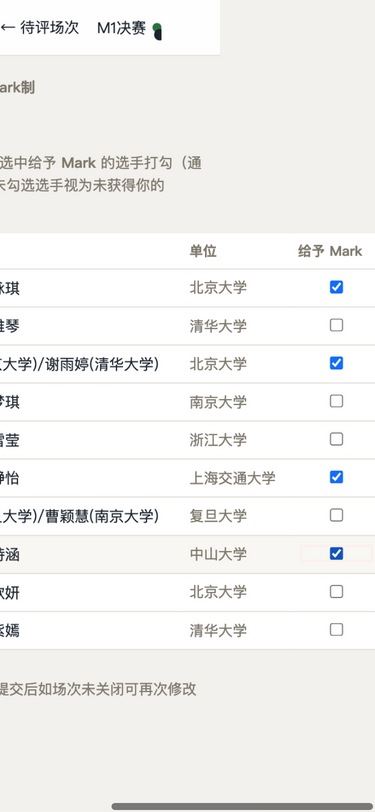
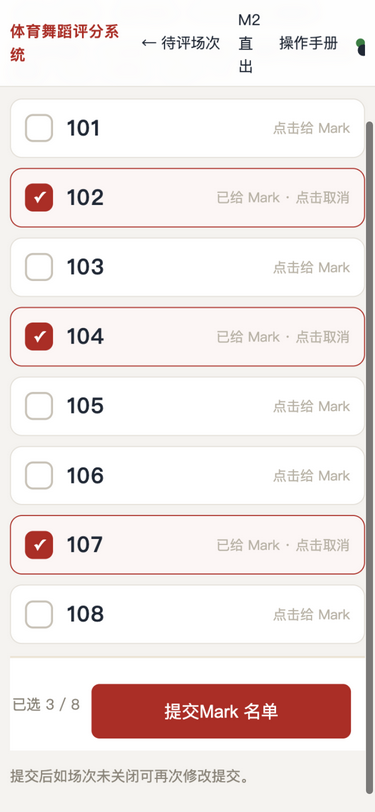
裁判移动端打分重设计：顺位法顺序点选(一人一点)/Mark整行点选/评分制数字键盘/吸附提交栏；CSS版本参数防缓存；手册同步

diff --git a/server/templates/judge_sheet.html b/server/templates/judge_sheet.html
@@ -1,46 +1,61 @@
 {% extends "base.html" %}
 {% block title %}评分 · {{ ev.name }} · {{ dance }}{% endblock %}
 {% block nav %}<a href="/judge">← 待评场次</a><span>{{ ev.name }}</span>{% endblock %}
+{% block bodyclass %}judge-sheet{% endblock %}
 {% block content %}
 <div class="judge-sheet">
 <h1>{{ dance }} <span class="muted">{{ ev.name }} / {{ ev.scoring_type }}</span></h1>
 <p id="roster-note" class="muted">{% if is_score %}上场 {{ n }} 支队伍{% else %}上场 {{ n }} 名选手{% endif %} · 盲评原则：评分页仅显示背番号</p>
 {% if not roster %}<p class="err">上场名单为空或场次未开场。</p>{% endif %}
-{% if is_mark %}<p class="muted">滑冰制预赛：裁判只对选中给予 <b>Mark</b> 的选手打勾（通常为晋级名额数量）；未勾选选手视为未获得你的 Mark。已选 <span id="mark-count">0</span> / {{ n }}</p>{% endif %}
-<table>
-  <tr><th>背番号</th><th>{% if is_skating %}名次（1~{{ n }} 唯一）{% elif is_score %}评分（0~10，一位小数）{% else %}给予 Mark{% endif %}</th></tr>
+
+{% if is_mark %}
+<p class="muted">滑冰制预赛：点击选手行给予 <b>Mark</b>（通常为晋级名额数量）；再点一次取消。已选 <span id="mark-count">0</span> / {{ n }}</p>
+<div class="mark-list">
   {% for num in roster %}
-  <tr>
-    <td>{{ num }}</td>
-    <td>
-      {% if is_skating %}
-      <select class="val" data-num="{{ num }}">
-        <option value="">--</option>
-        {% for i in range(1, n + 1) %}<option value="{{ i }}" {% if rows.get(num) and rows[num]["placement"] == i %}selected{% endif %}>{{ i }}</option>{% endfor %}
-      </select>
-      {% elif is_score %}
-      <input type="number" class="val" data-num="{{ num }}" min="0" max="10" step="0.5"
-        value="{{ rows.get(num) and rows[num]["mark"] if rows.get(num) and rows[num]["mark"] is not none else "" }}">
-      {% else %}
-      <input type="checkbox" class="val" data-num="{{ num }}"
-        {% if rows.get(num) and rows[num]["mark"] is not none %}{{ "checked" if rows[num]["mark"] else "" }}{% endif %}>
-      {% endif %}
-    </td>
-  </tr>
+  <div class="mark-row" data-num="{{ num }}">
+    <span class="mark-box"></span>
+    <span class="row-num">{{ num }}</span>
+    <span class="mark-hint">点击给 Mark</span>
+    <input type="checkbox" class="val" data-num="{{ num }}" {% if rows.get(num) and rows[num]["mark"] is not none %}{{ "checked" if rows[num]["mark"] else "" }}{% endif %}>
+  </div>
   {% endfor %}
-</table>
-<p><button class="btn" id="submit" onclick="submitSheet()">提交{% if is_skating %}名次表{% elif is_score %}评分表{% else %}Mark 名单{% endif %}</button>
-<span id="msg"></span> <span class="muted">提交后如场次未关闭可再次修改提交。</span></p>
+</div>
+{% elif is_skating %}
+<p class="muted">按名次顺序依次点击选手：第 1 次点击 = 第 1 名，第 2 次 = 第 2 名……点已排选手取消并自动补位。</p>
+<div class="rank-list">
+  {% for num in roster %}
+  <div class="rank-row" data-num="{{ num }}">
+    <span class="rank-badge"></span>
+    <span class="row-num">{{ num }}</span>
+    <span class="rank-hint">点击排名</span>
+    <input type="hidden" class="val" data-num="{{ num }}" value="{{ rows.get(num) and rows[num]["placement"] if rows.get(num) and rows[num]["placement"] else "" }}">
+  </div>
+  {% endfor %}
+</div>
+{% else %}
+<p class="muted">为每支队伍打 0~10 分（一位小数），点击输入框唤起数字键盘。</p>
+<div class="score-list">
+  {% for num in roster %}
+  <label class="score-row">
+    <span class="row-num">{{ num }}</span>
+    <input type="number" class="val" data-num="{{ num }}" min="0" max="10" step="0.5" inputmode="decimal" placeholder="0.0~10.0"
+      value="{{ rows.get(num) and rows[num]["mark"] if rows.get(num) and rows[num]["mark"] is not none else "" }}">
+  </label>
+  {% endfor %}
+</div>
+{% endif %}
+
+<div class="submit-bar">
+  <span id="progress" class="muted"></span>
+  <button class="btn big" id="submit" onclick="submitSheet()">提交{% if is_skating %}名次表{% elif is_score %}评分表{% else %}Mark 名单{% endif %}</button>
+  <span id="msg"></span>
+</div>
+<p class="muted">提交后如场次未关闭可再次修改提交。</p>
 </div>
 {% endblock %}
 {% block scripts %}
-var CEID = {{ ev.id }}, DANCE = {{ dance|tojson }}, SKATING = {{ is_skating|tojson }}, SCORE = {{ is_score|tojson }};
-document.querySelectorAll('input.val[type=checkbox]').forEach(function (el) {
-  el.addEventListener('change', function () {
-    var cnt = document.getElementById('mark-count');
-    if (cnt) cnt.textContent = document.querySelectorAll('input.val:checked').length;
-  });
-});
+var CEID = {{ ev.id }}, DANCE = {{ dance|tojson }}, SKATING = {{ is_skating|tojson }}, SCORE = {{ is_score|tojson }}, N = {{ n }};
+
 function collect() {
   var values = {};
   document.querySelectorAll('.val').forEach(function (el) {
@@ -52,20 +67,90 @@ function collect() {
   if (!SKATING && !SCORE) {
     var picked = {};
     Object.keys(values).forEach(function (num) { if (values[num]) picked[num] = true; });
-    var cnt = document.getElementById('mark-count');
-    if (cnt) cnt.textContent = Object.keys(picked).length;
     return picked;   // 仅 Mark 制：只提交勾选给予 Mark 的选手（core 语义）；SCORE 须保留数值
   }
   return values;
 }
+
+if (SKATING) {
+  var order = [];
+  function renderRank() {
+    document.querySelectorAll('.rank-row').forEach(function (row) {
+      var v = row.querySelector('input.val').value;
+      var badge = row.querySelector('.rank-badge');
+      if (v) { badge.textContent = v; row.classList.add('assigned'); row.querySelector('.rank-hint').textContent = '点击取消'; }
+      else { badge.textContent = ''; row.classList.remove('assigned'); row.querySelector('.rank-hint').textContent = '点击排名'; }
+    });
+    var done = order.length;
+    document.getElementById('progress').textContent = '已排 ' + done + ' / ' + N + (done < N ? ' · 还差 ' + (N - done) : ' · 可提交');
+  }
+  function initOrder() {
+    order = Array.prototype.map.call(document.querySelectorAll('.rank-row'), function (row) {
+      return {num: row.dataset.num, v: parseInt(row.querySelector('input.val').value, 10) || 0};
+    }).filter(function (x) { return x.v > 0; })
+      .sort(function (a, b) { return a.v - b.v; })
+      .map(function (x) { return x.num; });
+  }
+  function tapRank(num) {
+    var i = order.indexOf(num);
+    if (i >= 0) order.splice(i, 1); else order.push(num);   // 取消自动补位 / 顺序递增
+    document.querySelectorAll('.rank-row').forEach(function (row) {
+      var k = order.indexOf(row.dataset.num);
+      row.querySelector('input.val').value = k >= 0 ? String(k + 1) : '';
+    });
+    renderRank();
+  }
+  document.querySelectorAll('.rank-row').forEach(function (row) {
+    row.addEventListener('click', function () { tapRank(row.dataset.num); });
+  });
+  initOrder();
+  renderRank();
+} else if (SCORE) {
+  function renderScore() {
+    var done = Array.prototype.filter.call(document.querySelectorAll('input.val'), function (i) { return i.value !== ''; }).length;
+    document.getElementById('progress').textContent = '已填 ' + done + ' / ' + N + (done < N ? ' · 还差 ' + (N - done) : ' · 可提交');
+  }
+  document.querySelectorAll('input.val').forEach(function (inp) { inp.addEventListener('input', renderScore); });
+  renderScore();
+} else {
+  function renderMark() {
+    document.querySelectorAll('.mark-row').forEach(function (row) {
+      var cb = row.querySelector('input.val');
+      row.classList.toggle('checked', cb.checked);
+      row.querySelector('.mark-hint').textContent = cb.checked ? '已给 Mark · 点击取消' : '点击给 Mark';
+    });
+    var cnt = document.getElementById('mark-count');
+    if (cnt) cnt.textContent = document.querySelectorAll('input.val:checked').length;
+    var done = document.querySelectorAll('input.val:checked').length;
+    document.getElementById('progress').textContent = '已选 ' + done + ' / ' + N;
+  }
+  document.querySelectorAll('.mark-row').forEach(function (row) {
+    row.addEventListener('click', function () {
+      var cb = row.querySelector('input.val');
+      cb.checked = !cb.checked;
+      renderMark();
+    });
+  });
+  renderMark();
+}
+
 async function submitSheet() {
   var el = document.getElementById('msg');
+  if (SKATING || SCORE) {
+    var filled = Object.keys(collect()).length;
+    if (filled < N) {
+      el.className = 'err';
+      el.textContent = '还有 ' + (N - filled) + (SKATING ? ' 名选手未排名' : ' 支队伍未评分');
+      return;
+    }
+  }
   try {
     var r = await api('PUT', '/api/judge/competition-events/' + CEID + '/dances/' + encodeURIComponent(DANCE) + '/sheet', {values: collect()});
     el.className = 'ok';
     el.textContent = '已提交' + (r.auto_calculated ? '（全员收齐，已自动计算）' : '，等待其他裁判');
   } catch (e) { el.className = 'err'; el.textContent = e.message; }
 }
+
 var CID = {{ ev.competition_id }};
 connectSSE('/api/events/' + CID + '/stream', {
   competition_event_opened: function () { location.reload(); },

diff --git a/server/templates/manual.html b/server/templates/manual.html
@@ -114,22 +114,24 @@
   <p class="muted">验证点：已评场次有 ✓ 标记；评分被管理退回后卡片实时恢复待评。</p>
 </div>
 
-<div class="step"><h3>第 3 步 · 顺位法评分（SKATING）</h3>
-  <p>为每名选手（仅背番号）下拉选择 1~N 名次，全表填满且互不重复后「提交名次表」。
-  整页一屏放下，无需滚动。提交后未关闭前可修改重交。</p>
-  <img src="/static/manual/r21/j3-sheet-skating.png" alt="顺位法评分表" loading="lazy">
-  <p class="muted">验证点：重复名次服务端 400「名次必须为 1~N 且互不重复」；最后一名裁判提交触发自动计算并关闭。</p>
+<div class="step"><h3>第 3 步 · 顺位法评分（SKATING）——顺序点选，一人一点</h3>
+  <p>按名次顺序依次点击选手行：第 1 次点击 = 第 1 名，第 2 次 = 第 2 名……名次徽章自动编号；
+  点已排选手取消并自动补位。整页单屏，底部吸附提交栏常驻（已排 X/N），一人仅需 <b>1 次点击</b>。</p>
+  <img src="/static/manual/r21/j3-sheet-skating.png" alt="顺位法顺序点选" loading="lazy">
+  <p class="muted">验证点：人数不满时提交被本地拦截（不发请求）；重复名次不可能出现；最后一名裁判提交触发自动计算并关闭。</p>
 </div>
 
-<div class="step"><h3>第 4 步 · Mark 制评分（滑冰制预赛）</h3>
-  <p>只对选中给予 Mark 的选手打勾（通常=晋级名额数），「已选 X / N」实时计数；提交即整体替换本裁判本场名单。</p>
-  <img src="/static/manual/r21/j4-mark-selected.png" alt="Mark 制评分表" loading="lazy">
-  <p class="muted">验证点：允许任意子集（部分提交语义）；收齐按「每裁判有提交」判定；至少勾选一人。</p>
+<div class="step"><h3>第 4 步 · Mark 制评分（滑冰制预赛）——整行大触控点选</h3>
+  <p>点击选手整行即给予 Mark（大触控目标，行高亮 + 红色对勾），再点一次取消；「已选 X / N」实时计数（通常=晋级名额数）。
+  提交即整体替换本裁判本场名单。</p>
+  <img src="/static/manual/r21/j4-mark-selected.png" alt="Mark 制整行点选" loading="lazy">
+  <p class="muted">验证点：允许任意子集（部分提交语义）；收齐按「每裁判有提交」判定；至少勾选一名。</p>
 </div>
 
-<div class="step"><h3>第 5 步 · 评分制评分（SCORE，集体项目）</h3>
-  <p>对每支队伍给 0~10 分（一位小数）。非法值（如 11）服务端拒绝并提示，不落库。</p>
-  <img src="/static/manual/r21/j5-sheet-score.png" alt="评分制评分表" loading="lazy">
+<div class="step"><h3>第 5 步 · 评分制评分（SCORE，集体项目）——数字键盘直填</h3>
+  <p>点击输入框唤起数字键盘，为每支队伍打 0~10 分（一位小数）；进度栏实时显示已填数量，
+  全部填完方可提交。非法值（如 11）服务端拒绝并提示，不落库。</p>
+  <img src="/static/manual/r21/j5-sheet-score.png" alt="评分制数字键盘" loading="lazy">
   <p class="muted">验证点：越界/超精度 400；9 裁判收齐自动计算；总分=全裁判求和，同分标准竞赛排名。</p>
 </div>
 

diff --git a/server/static/style.css b/server/static/style.css
@@ -178,3 +178,35 @@ body.screen th { position: static; }
   .manual-nav { display: none; }
   .step img { max-height: none; }
 }
+
+/* ---- 裁判评分表：移动优先点选交互 ---- */
+.judge-sheet .rank-list, .judge-sheet .mark-list, .judge-sheet .score-list { margin: .6rem 0 0; max-width: 640px; }
+.judge-sheet .rank-row, .judge-sheet .mark-row, .judge-sheet .score-row {
+  display: flex; align-items: center; gap: 14px; padding: 12px 14px; margin-bottom: 10px;
+  border: 1px solid #e5e0d8; border-radius: 12px; background: #fff; cursor: pointer; user-select: none; -webkit-tap-highlight-color: transparent;
+}
+.judge-sheet .row-num { font-size: 1.35rem; font-weight: 800; letter-spacing: 1px; min-width: 3.2em; }
+.judge-sheet .rank-hint, .judge-sheet .mark-hint { color: #b9b2a4; font-size: .85rem; margin-left: auto; }
+.judge-sheet .rank-badge {
+  width: 42px; height: 42px; border-radius: 50%; border: 2px dashed #c9c2b6; flex: 0 0 auto;
+  display: flex; align-items: center; justify-content: center; font-size: 1.25rem; font-weight: 800; color: #b91c1c;
+}
+.judge-sheet .rank-row.assigned { border-color: #b91c1c; background: #fdf6f5; }
+.judge-sheet .rank-row.assigned .rank-badge { border: none; background: #b91c1c; color: #fff; }
+.judge-sheet .mark-box {
+  width: 28px; height: 28px; border: 2px solid #c9c2b6; border-radius: 8px; flex: 0 0 auto;
+  display: flex; align-items: center; justify-content: center; color: #fff; font-weight: 900;
+}
+.judge-sheet .mark-row.checked { border-color: #b91c1c; background: #fdf6f5; }
+.judge-sheet .mark-row.checked .mark-box { background: #b91c1c; border-color: #b91c1c; }
+.judge-sheet .mark-row.checked .mark-box::after { content: "✓"; }
+.judge-sheet .mark-row input[type=checkbox] { position: absolute; opacity: 0; pointer-events: none; }
+.judge-sheet .score-row { justify-content: space-between; }
+.judge-sheet .score-row input[type=number] { width: 120px; font-size: 1.2rem; padding: 12px; text-align: center; }
+.judge-sheet .submit-bar {
+  position: sticky; bottom: 0; z-index: 5; display: flex; align-items: center; gap: 12px;
+  background: var(--card, #fff); padding: 12px 2px; border-top: 2px solid #eee3d3; margin-top: 12px;
+}
+.judge-sheet .submit-bar .btn { flex: 1; margin: 0; }
+.judge-sheet .submit-bar #progress { white-space: nowrap; }
+.judge-sheet .submit-bar #msg { font-size: .85rem; }

diff --git a/server/templates/base.html b/server/templates/base.html
@@ -5,7 +5,7 @@
 <meta name="viewport" content="width=device-width, initial-scale=1, viewport-fit=cover">
 <meta name="theme-color" content="#b91c1c">
 <title>{% block title %}体育舞蹈评分系统{% endblock %}</title>
-<link rel="stylesheet" href="/static/style.css">
+<link rel="stylesheet" href="/static/style.css?v=r22">
 </head>
 <body class="{% block bodyclass %}{% endblock %}">
 <header>
